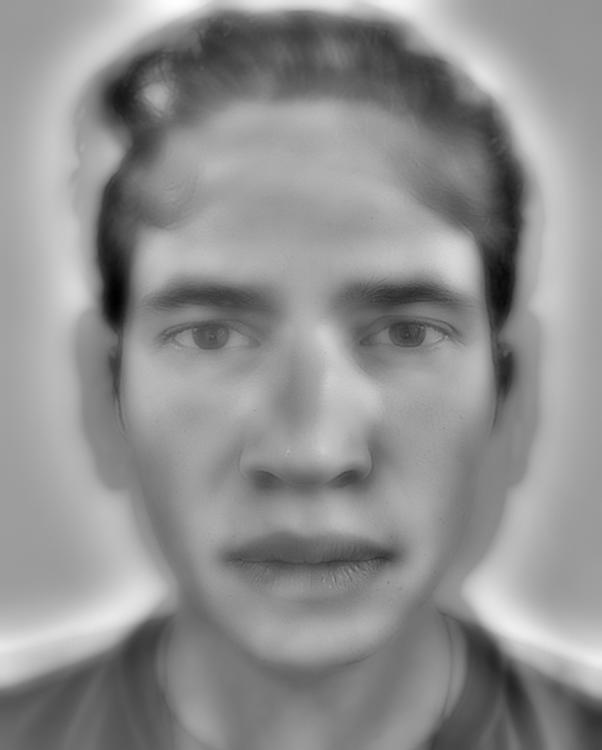
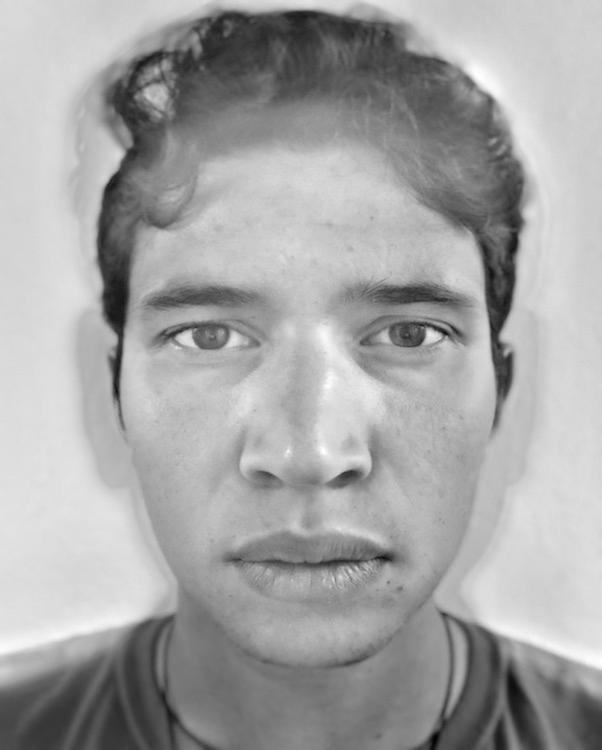
Decent results in grayscale

diff --git a/main.py b/main.py
@@ -11,7 +11,6 @@ import imutils
 import argparse
 import dlib
 from functions import *
-from make_mask import save_mask
 
 def getFacialLandmarks(image):
     detector = dlib.get_frontal_face_detector()
@@ -57,9 +56,9 @@ def getGaussianStacks(inputIm, exampleIm, stack_depth):
     gStackExample = GaussianStack(exampleIm, 45, 2, stack_depth)
     return gStackInput, gStackExample
 
-def getLaplacianStacks(gStackInput, gStackExample, inputIm, exampleIm):
-    lStackInput = LaplacianStack(inputIm, gStackInput)
-    lStackExample = LaplacianStack(exampleIm, gStackExample)
+def getLaplacianStacks(inputIm, exampleIm, input_mask, example_mask, stack_depth):
+    lStackInput = LaplacianStackAlt(inputIm, input_mask, stack_depth)
+    lStackExample = LaplacianStackAlt(exampleIm, example_mask, stack_depth)
     return lStackInput, lStackExample
 
 def getResidualStack(img, imgStack):
@@ -68,8 +67,8 @@ def getResidualStack(img, imgStack):
         residualStack.append(cv2.convolve(img, g))
     return residualStack
 
-def getResidual(image, stack_depth):
-    return lowPass(image, 45, 2**stack_depth)
+def getResidual(image, mask, stack_depth):
+    return lowPass(image, 5*(2**stack_depth), 2**stack_depth)
 
 def getLocalEnergyStack(lStack):
     energyStack = []
@@ -111,47 +110,50 @@ def robustTransfer(inputLapStack, warpedStack, inputEStack):
     return newGainStack
 
 #This is based more off of the matlab code
-def styleTransfer(input, example):
+def styleTransfer(input, example, input_gray, example_gray):
     #Getting masks around the regions of interest
     input_mask = readGrayScale('jose_mask.jpg')
     example_mask = readGrayScale('george_mask.jpg')
-
+    showImage(input_mask)
+    showImage(example_mask)
     inputShape, inputTri = getFacialLandmarks(input)
     exampleShape, exampleTri = getFacialLandmarks(example)
 
     stack_depth = 6
-    gStackInput, gStackExample = getGaussianStacks(input_gray, example_gray, stack_depth)
-    lStackInput, lStackExample = getLaplacianStacks(gStackInput, gStackExample, input_gray, example_gray)
+    #The implementation given for the paper doesn't really use the Gaussian stack
+    #gStackInput, gStackExample = getGaussianStacks(input_gray, example_gray, stack_depth)
+    #lStackInput, lStackExample = getLaplacianStacks(gStackInput, gStackExample, input_gray, example_gray)
+    lStackInput, lStackExample = getLaplacianStacks(input_gray, example_gray, input_mask, example_mask, stack_depth)
 
-    input_residual = getResidual(input_gray, stack_depth)
-    example_residual = getResidual(example_gray, stack_depth)
+    input_residual = getResidual(input_gray, input_mask, stack_depth)
+    example_residual = getResidual(example_gray, example_mask, stack_depth)
 
-    exampleWarpedLap = warpLapStack(lStackExample, exampleShape, inputShape, inputTri)
-    for w in exampleWarpedLap:
-        showImage(w)
-
-    inputEStack = getLocalEnergyStack(lStackInput)
-    #exampleEStack = getLocalEnergyStack(lStackExample)
-    exampleEStackWarped = getLocalEnergyStack(exampleWarpedLap)
-
-    #warpedStack = warpEnergyStack(exampleEStack, inputShape, inputTri, exampleShape)
-    #for w in warpedStack:
+    #exampleWarpedLap = warpLapStack(lStackExample, exampleShape, inputShape, inputTri)
+    #for w in exampleWarpedLap:
         #showImage(w)
 
-    gainStack = robustTransfer(lStackInput, exampleEStackWarped, inputEStack)
-    for g in gainStack:
-        showImage(g)
+    inputEStack = getLocalEnergyStack(lStackInput)
+    exampleEStack = getLocalEnergyStack(lStackExample)
+    #exampleEStackWarped = getLocalEnergyStack(exampleWarpedLap)
+
+    warpedStack = warpEnergyStack(exampleEStack, inputShape, inputTri, exampleShape)
+
+    #gainStack = robustTransfer(lStackInput, exampleEStackWarped, inputEStack)
+    gainStack = robustTransfer(lStackInput, warpedStack, inputEStack)
 
     warpedEResidual = warp(example_residual, exampleShape, inputShape, inputTri)
-    showImage(warpedEResidual)
+    
     gainStack.append(warpedEResidual)
     output_test = sumStack(gainStack)
     showImage(output_test)
-    saveImage('./test.jpg', output_test)
+    saveImage('./test_energy_first.jpg', output_test)
+
+
+
 
 input = read('jose.jpg')
 example = read('george.jpg')
 input_gray = readGrayScale('jose.jpg')
 example_gray = readGrayScale('george.jpg')
 
-styleTransfer(input_gray, example_gray)
+styleTransfer(input, example, input_gray, example_gray)

diff --git a/functions.py b/functions.py
@@ -144,7 +144,10 @@ def LaplacianStack(image, stack):
 def lowPassMask(image, size, sigma, mask):
     mask_G = lowPass(mask, size, sigma)
     output = lowPass(image*mask, size, sigma)
-    output = output / mask_G
+    showImage(output)
+    output = rescale(output / mask_G)
+    showImage(output)
+    return output
 """
 This method is based specifically on the matlab version of the paper.
 One thing it does is increase the size of the Gaussian kernel at each level
@@ -152,15 +155,16 @@ Likewise, I try to match the implementation as much as possible.
 This version also takes in a mask but haven't added that part yet.
 Read section 'Using a Mask' in the paper for why this is important.
 """
-def LaplacianStackAlt(image, stack_depth):
+def LaplacianStackAlt(image, mask, stack_depth):
     stack = []
-    stack[0] = image
+    stack.append(image)
     for i in range(1, stack_depth):
         sigma = 2 ** i
-        stack.append(lowPassMask(image, sigma*5, sigma, mask))
+        #stack.append(lowPassMask(image, sigma*5, sigma, mask))
+        stack.append(lowPass(image, sigma*5, sigma))
 
     for i in range(len(stack)-1):
-        stack[i] = stack[i] - stack[i-1]
+        stack[i] = rescale((stack[i] - stack[i+1]))
     return stack
 
 #Aggregates all images in STACK
